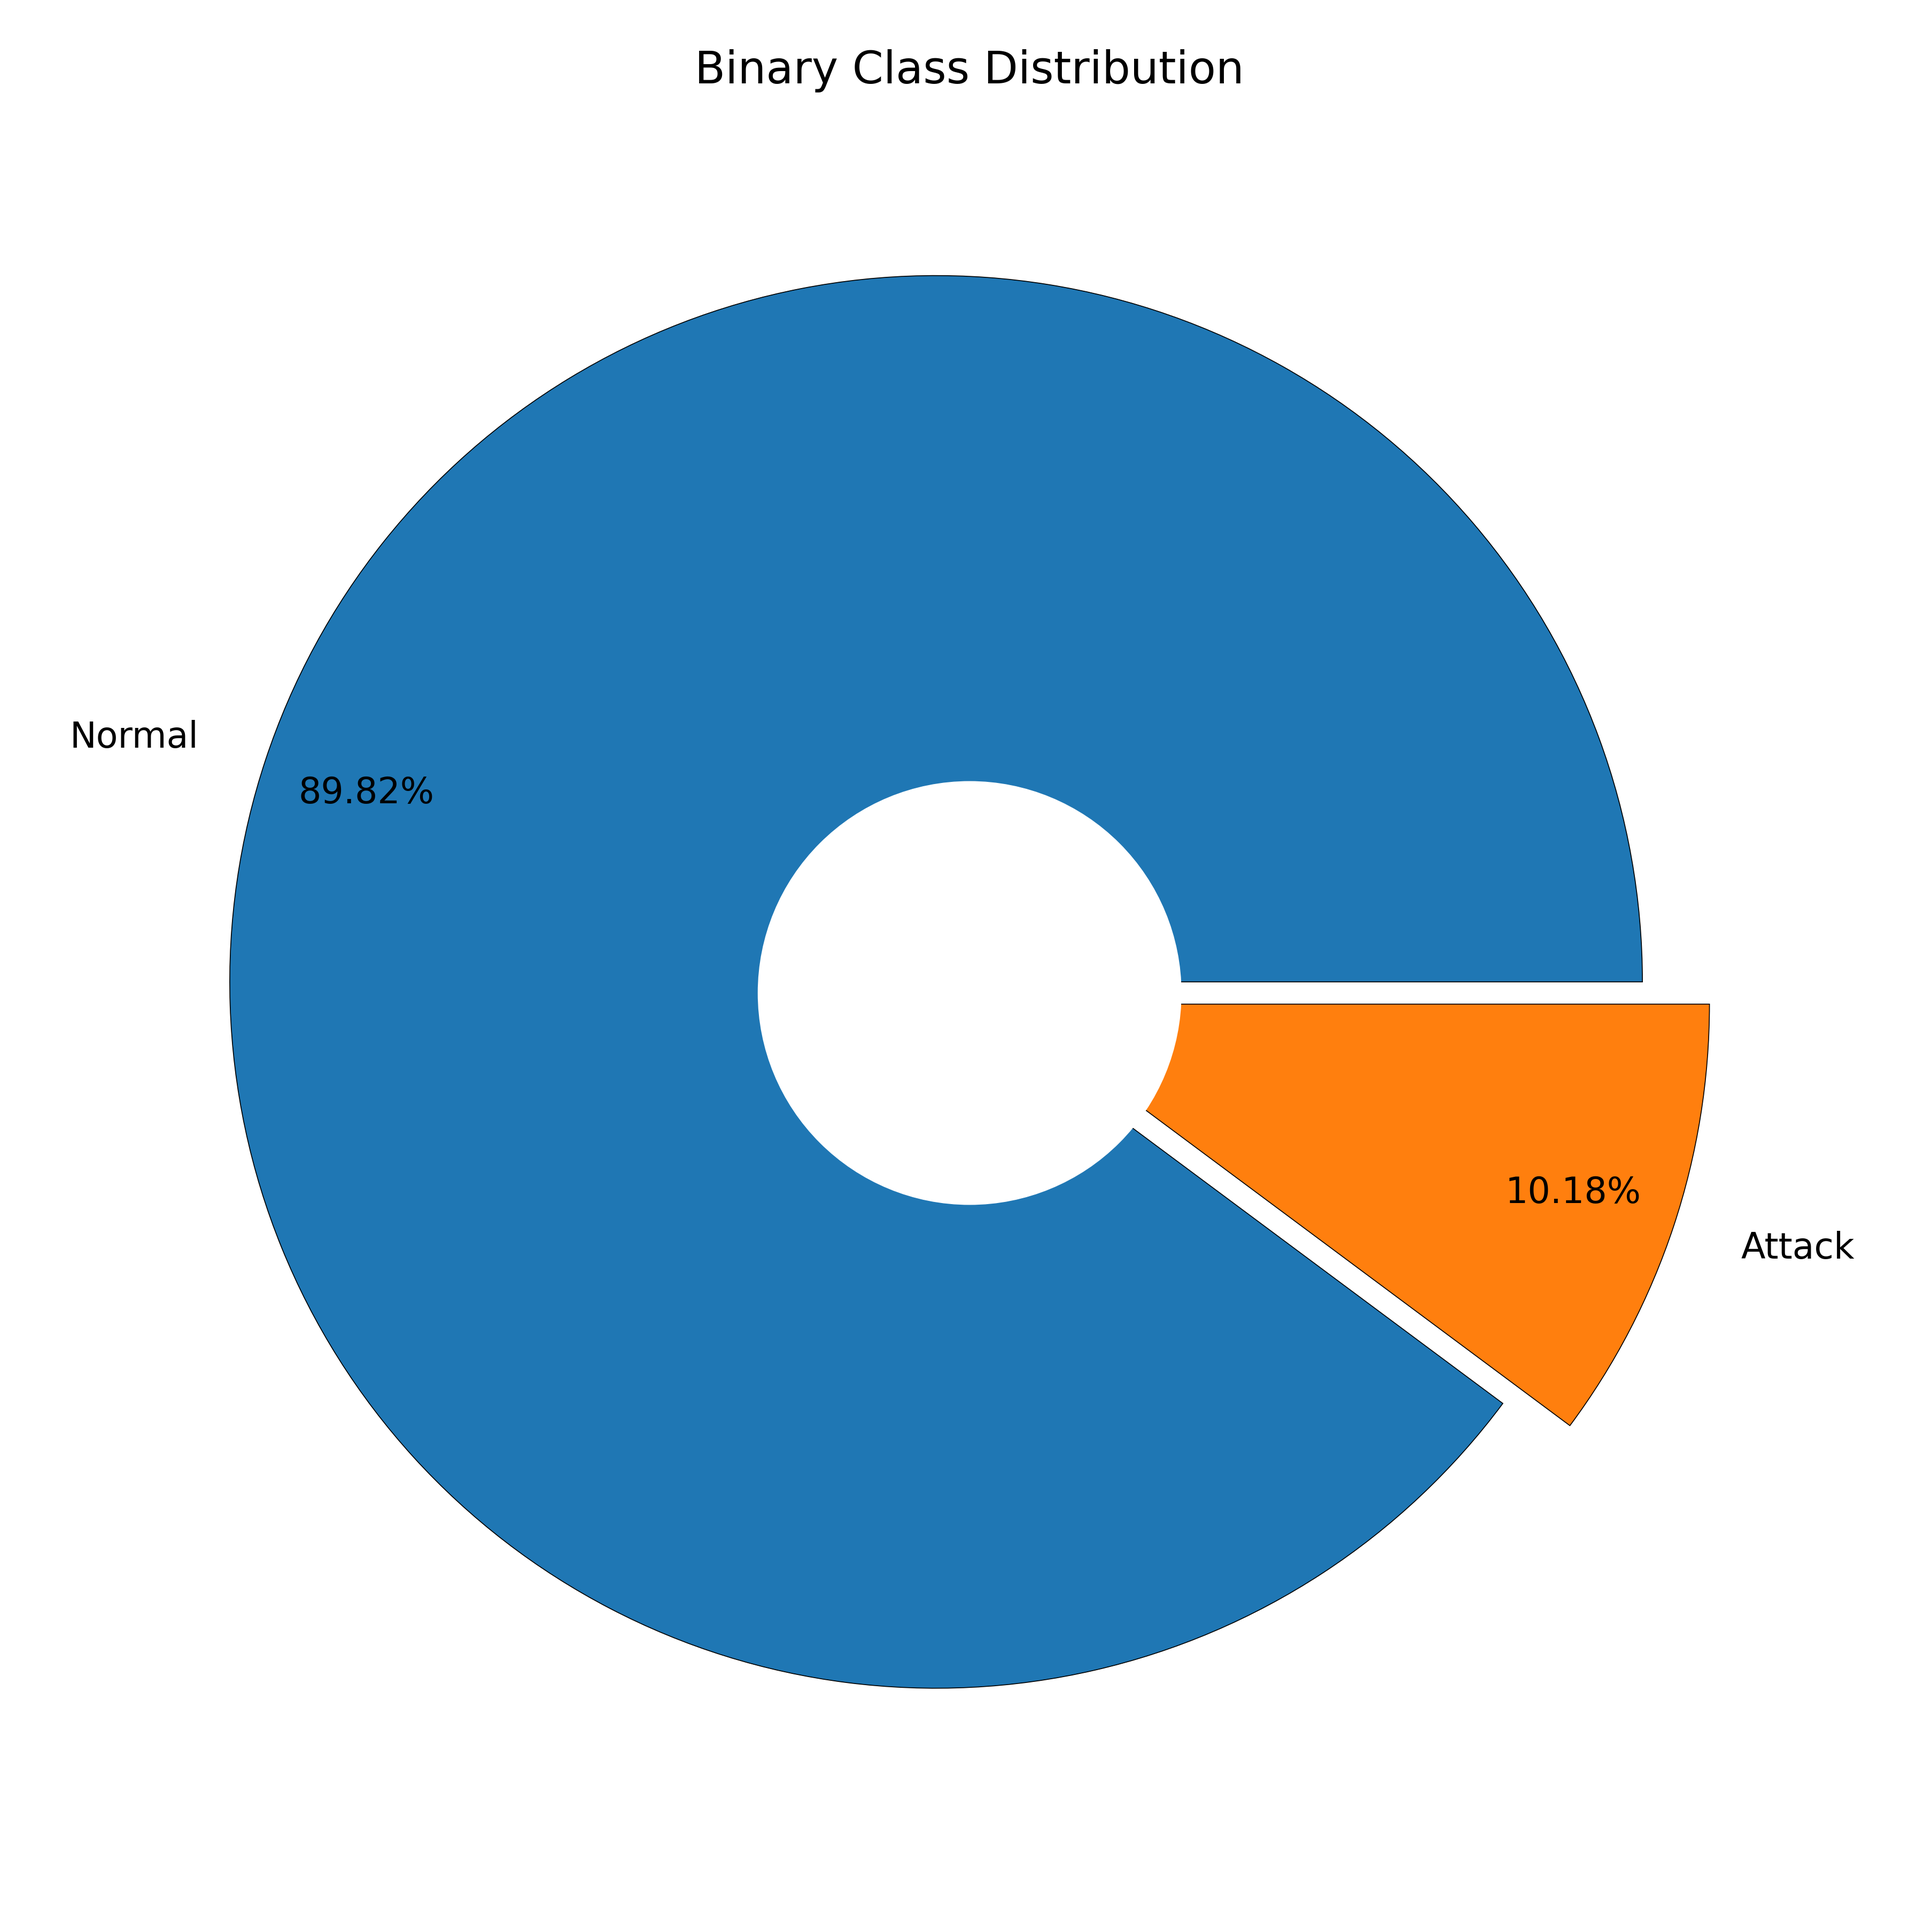
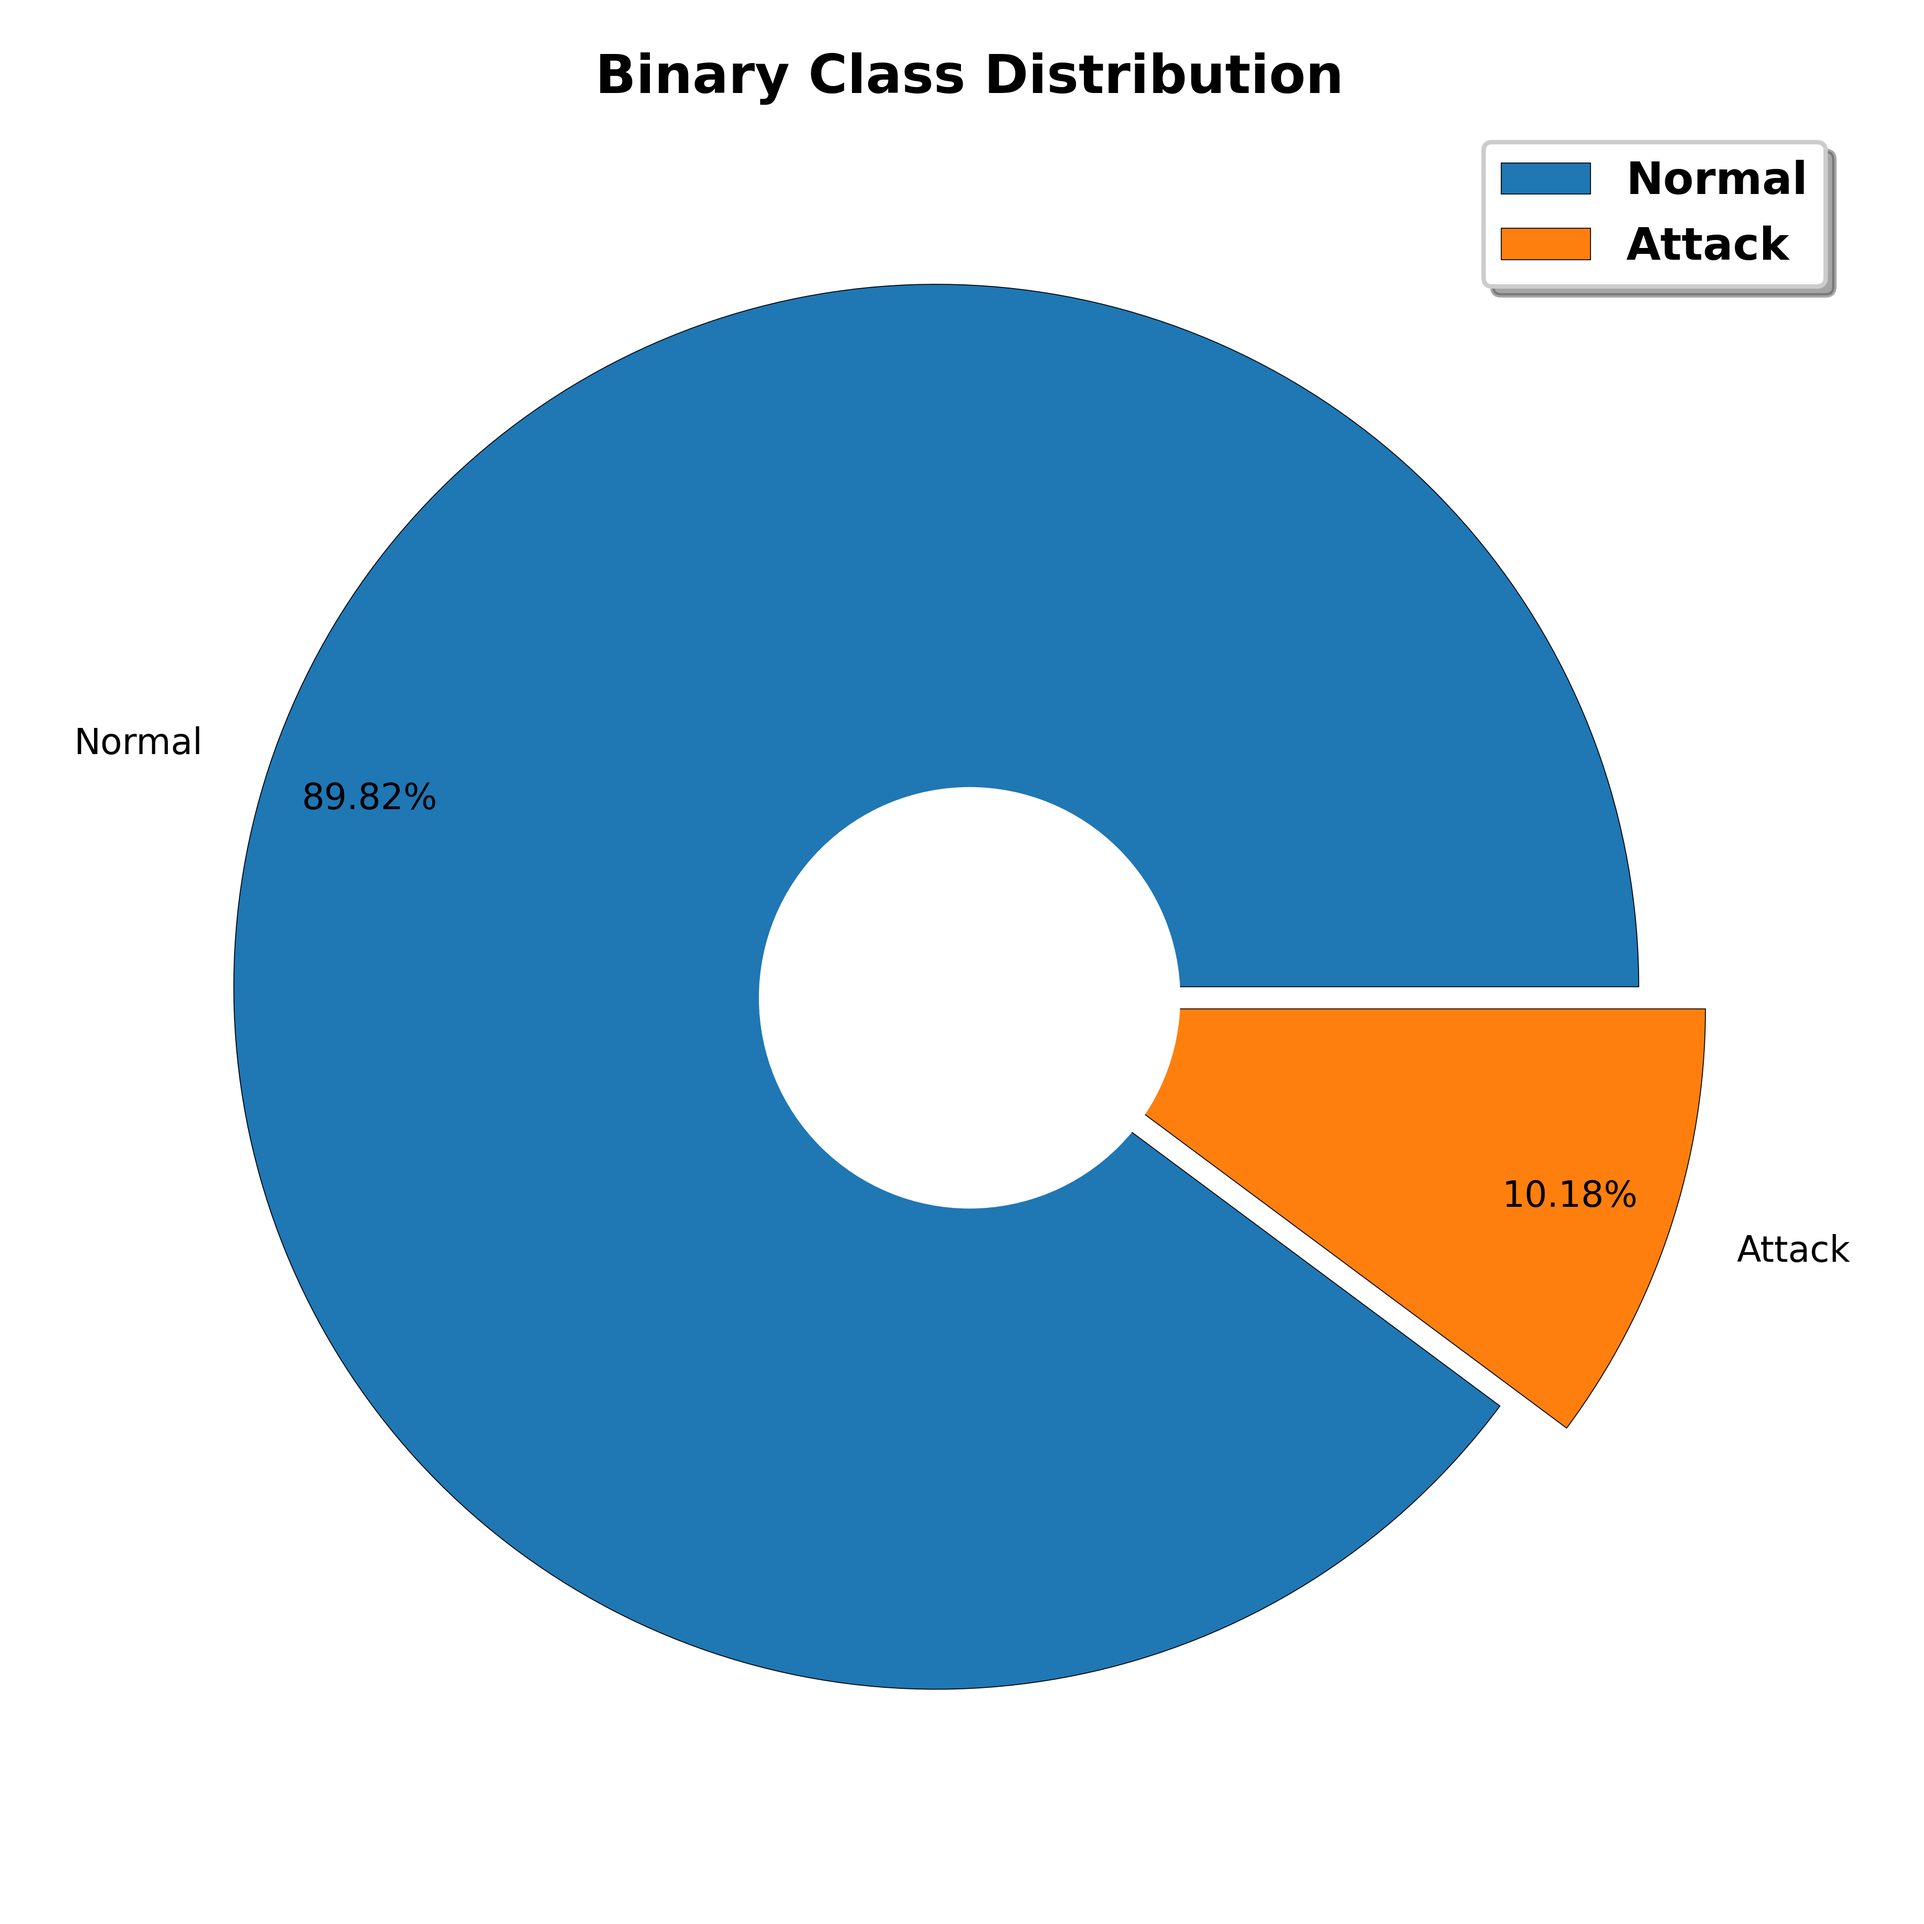
init updata

diff --git a/Proposed/pca_analysis.py b/Proposed/pca_analysis.py
@@ -30,47 +30,43 @@ def principal_component_varience():
     limit_df = 10
     explained_variance_limited = explained_variance.iloc[:limit_df, :]
 
-    # Plot 1: Explained variance (bar chart)
-    fig1, ax1 = plt.subplots(figsize=(15, 6))
-    ax1.set_title('Explained Variance Across Principal Components', fontsize=14)
+    # Get prefix
+    prefix = 'CICDDoS2019'
+    try:
+        with open(os.path.join(os.getcwd(), 'Datasets', 'current_dataset_prefix.txt'), 'r', encoding='utf-8') as f:
+            s = f.read().strip()
+            if s:
+                prefix = s
+    except Exception:
+        pass
+
+    # Combined plot: Explained variance and Cumulative variance
+    fig, (ax1, ax2) = plt.subplots(1, 2, figsize=(16, 6))
+    
+    # Left: Explained variance (bar chart)
+    ax1.set_title('Explained Variance Across Principal Components', fontsize=14, fontweight='bold')
     ax1.set_xlabel('Principal Components', fontsize=12)
     ax1.set_ylabel('Explained Variance', fontsize=12)
     sns.barplot(x=idx[:limit_df], y='explained variance', data=explained_variance_limited, color='tab:green', ax=ax1)
-    ax1.axhline(mean_explained_variance, ls='--', color='grey')  # plot mean
-    ax1.text(1.5, mean_explained_variance + (mean_explained_variance * .05), "Average", color='black', fontsize=14)
+    ax1.axhline(mean_explained_variance, ls='--', color='grey')
+    ax1.text(1.5, mean_explained_variance + (mean_explained_variance * .05), "Average", color='black', fontsize=12)
     max_y1 = max(explained_variance_limited.iloc[:, 0])
     ax1.set(ylim=(0, max_y1 + max_y1 * .1))
-    plt.tight_layout()
-    prefix = 'CICDDoS2019'
-    try:
-        with open(os.path.join(os.getcwd(), 'Datasets', 'current_dataset_prefix.txt'), 'r', encoding='utf-8') as f:
-            s = f.read().strip()
-            if s:
-                prefix = s
-    except Exception:
-        pass
-    plt.savefig(os.path.join(os.getcwd(), 'Images', f'{prefix}_explained_varience_pca.png'), dpi=600)
-    plt.close(fig1)
-
-    # Plot 2: Cumulative explained variance (line chart)
-    fig2, ax2 = plt.subplots(figsize=(15, 6))
-    ax2.set_title('Cumulative Explained Variance', fontsize=14)
+    ax1.grid(True, alpha=0.3)
+    
+    # Right: Cumulative explained variance (line chart)
+    ax2.set_title('Cumulative Explained Variance', fontsize=14, fontweight='bold')
     ax2.set_xlabel('Principal Components', fontsize=12)
     ax2.set_ylabel('Cumulative Explained Variance', fontsize=12)
-    sns.lineplot(x=idx[:limit_df], y='cumulative', data=explained_variance_limited, color='black', ax=ax2)
+    sns.lineplot(x=idx[:limit_df], y='cumulative', data=explained_variance_limited, color='dodgerblue', linewidth=2, ax=ax2)
     max_y2 = max(explained_variance_limited.iloc[:, 1])
     ax2.set(ylim=(0, max_y2 + max_y2 * .1))
+    ax2.grid(True, alpha=0.3)
+    
     plt.tight_layout()
-    prefix = 'CICDDoS2019'
-    try:
-        with open(os.path.join(os.getcwd(), 'Datasets', 'current_dataset_prefix.txt'), 'r', encoding='utf-8') as f:
-            s = f.read().strip()
-            if s:
-                prefix = s
-    except Exception:
-        pass
-    plt.savefig(os.path.join(os.getcwd(), 'Images', f'{prefix}_cumulative_explained_varience_pca.png'), dpi=600)
-    plt.close(fig2)
+    plt.savefig(os.path.join(os.getcwd(), 'Images', f'{prefix}_pca_variance_analysis.png'), dpi=600)
+    print(f"Saved PCA variance analysis to Images/{prefix}_pca_variance_analysis.png")
+    plt.close(fig)
 
     print("******************************PCA Done*******************************")
 

diff --git a/vis_utils.py b/vis_utils.py
@@ -67,9 +67,10 @@ def class_distributions(dataset):
         if (patch.theta2 - patch.theta1) < 5:
             txt.set_position((x, y - 0.1))
         i = i + 1
-    plt.title(' Multi Class Distributions', size=8)
+    plt.title('Multi Class Distributions', size=10, fontweight='bold')
 
-    plt.legend(keys, fontsize=4, bbox_to_anchor=(-0.11, 0.7, 0.3, 0.5))
+    plt.legend(keys, fontsize=7, bbox_to_anchor=(-0.11, 0.7, 0.3, 0.5),
+               frameon=True, fancybox=True, shadow=True, prop={'weight': 'bold'})
 
     centre_circle = plt.Circle((0, 0), 0.30, fc='white')
 
@@ -93,8 +94,8 @@ def class_distributions(dataset):
                         'linewidth': 0.2,
                         'antialiased': True}, textprops={'fontsize': 6})
 
-    plt.title('Binary Class Distributions', size=8)
-    plt.legend(labels, fontsize=4)
+    plt.title('Binary Class Distributions', size=10, fontweight='bold')
+    plt.legend(labels, fontsize=8, frameon=True, fancybox=True, shadow=True, prop={'weight': 'bold'})
 
     centre_circle = plt.Circle((0, 0), 0.30, fc='white')
 
@@ -137,7 +138,8 @@ def class_distributions(dataset):
     plt.pie([normal, attack], explode=[0.05, 0.05], autopct='%1.2f%%', pctdistance=0.85,
             wedgeprops={"edgecolor": "black", 'linewidth': 0.2, 'antialiased': True},
             textprops={'fontsize': 8}, labels=labels_bin)
-    plt.title('Binary Class Distribution', size=10)
+    plt.title('Binary Class Distribution', size=12, fontweight='bold')
+    plt.legend(labels_bin, fontsize=10, frameon=True, fancybox=True, shadow=True, prop={'weight': 'bold'})
     
     centre_circle = plt.Circle((0, 0), 0.30, fc='white')
     plt.gcf().gca().add_artist(centre_circle)
